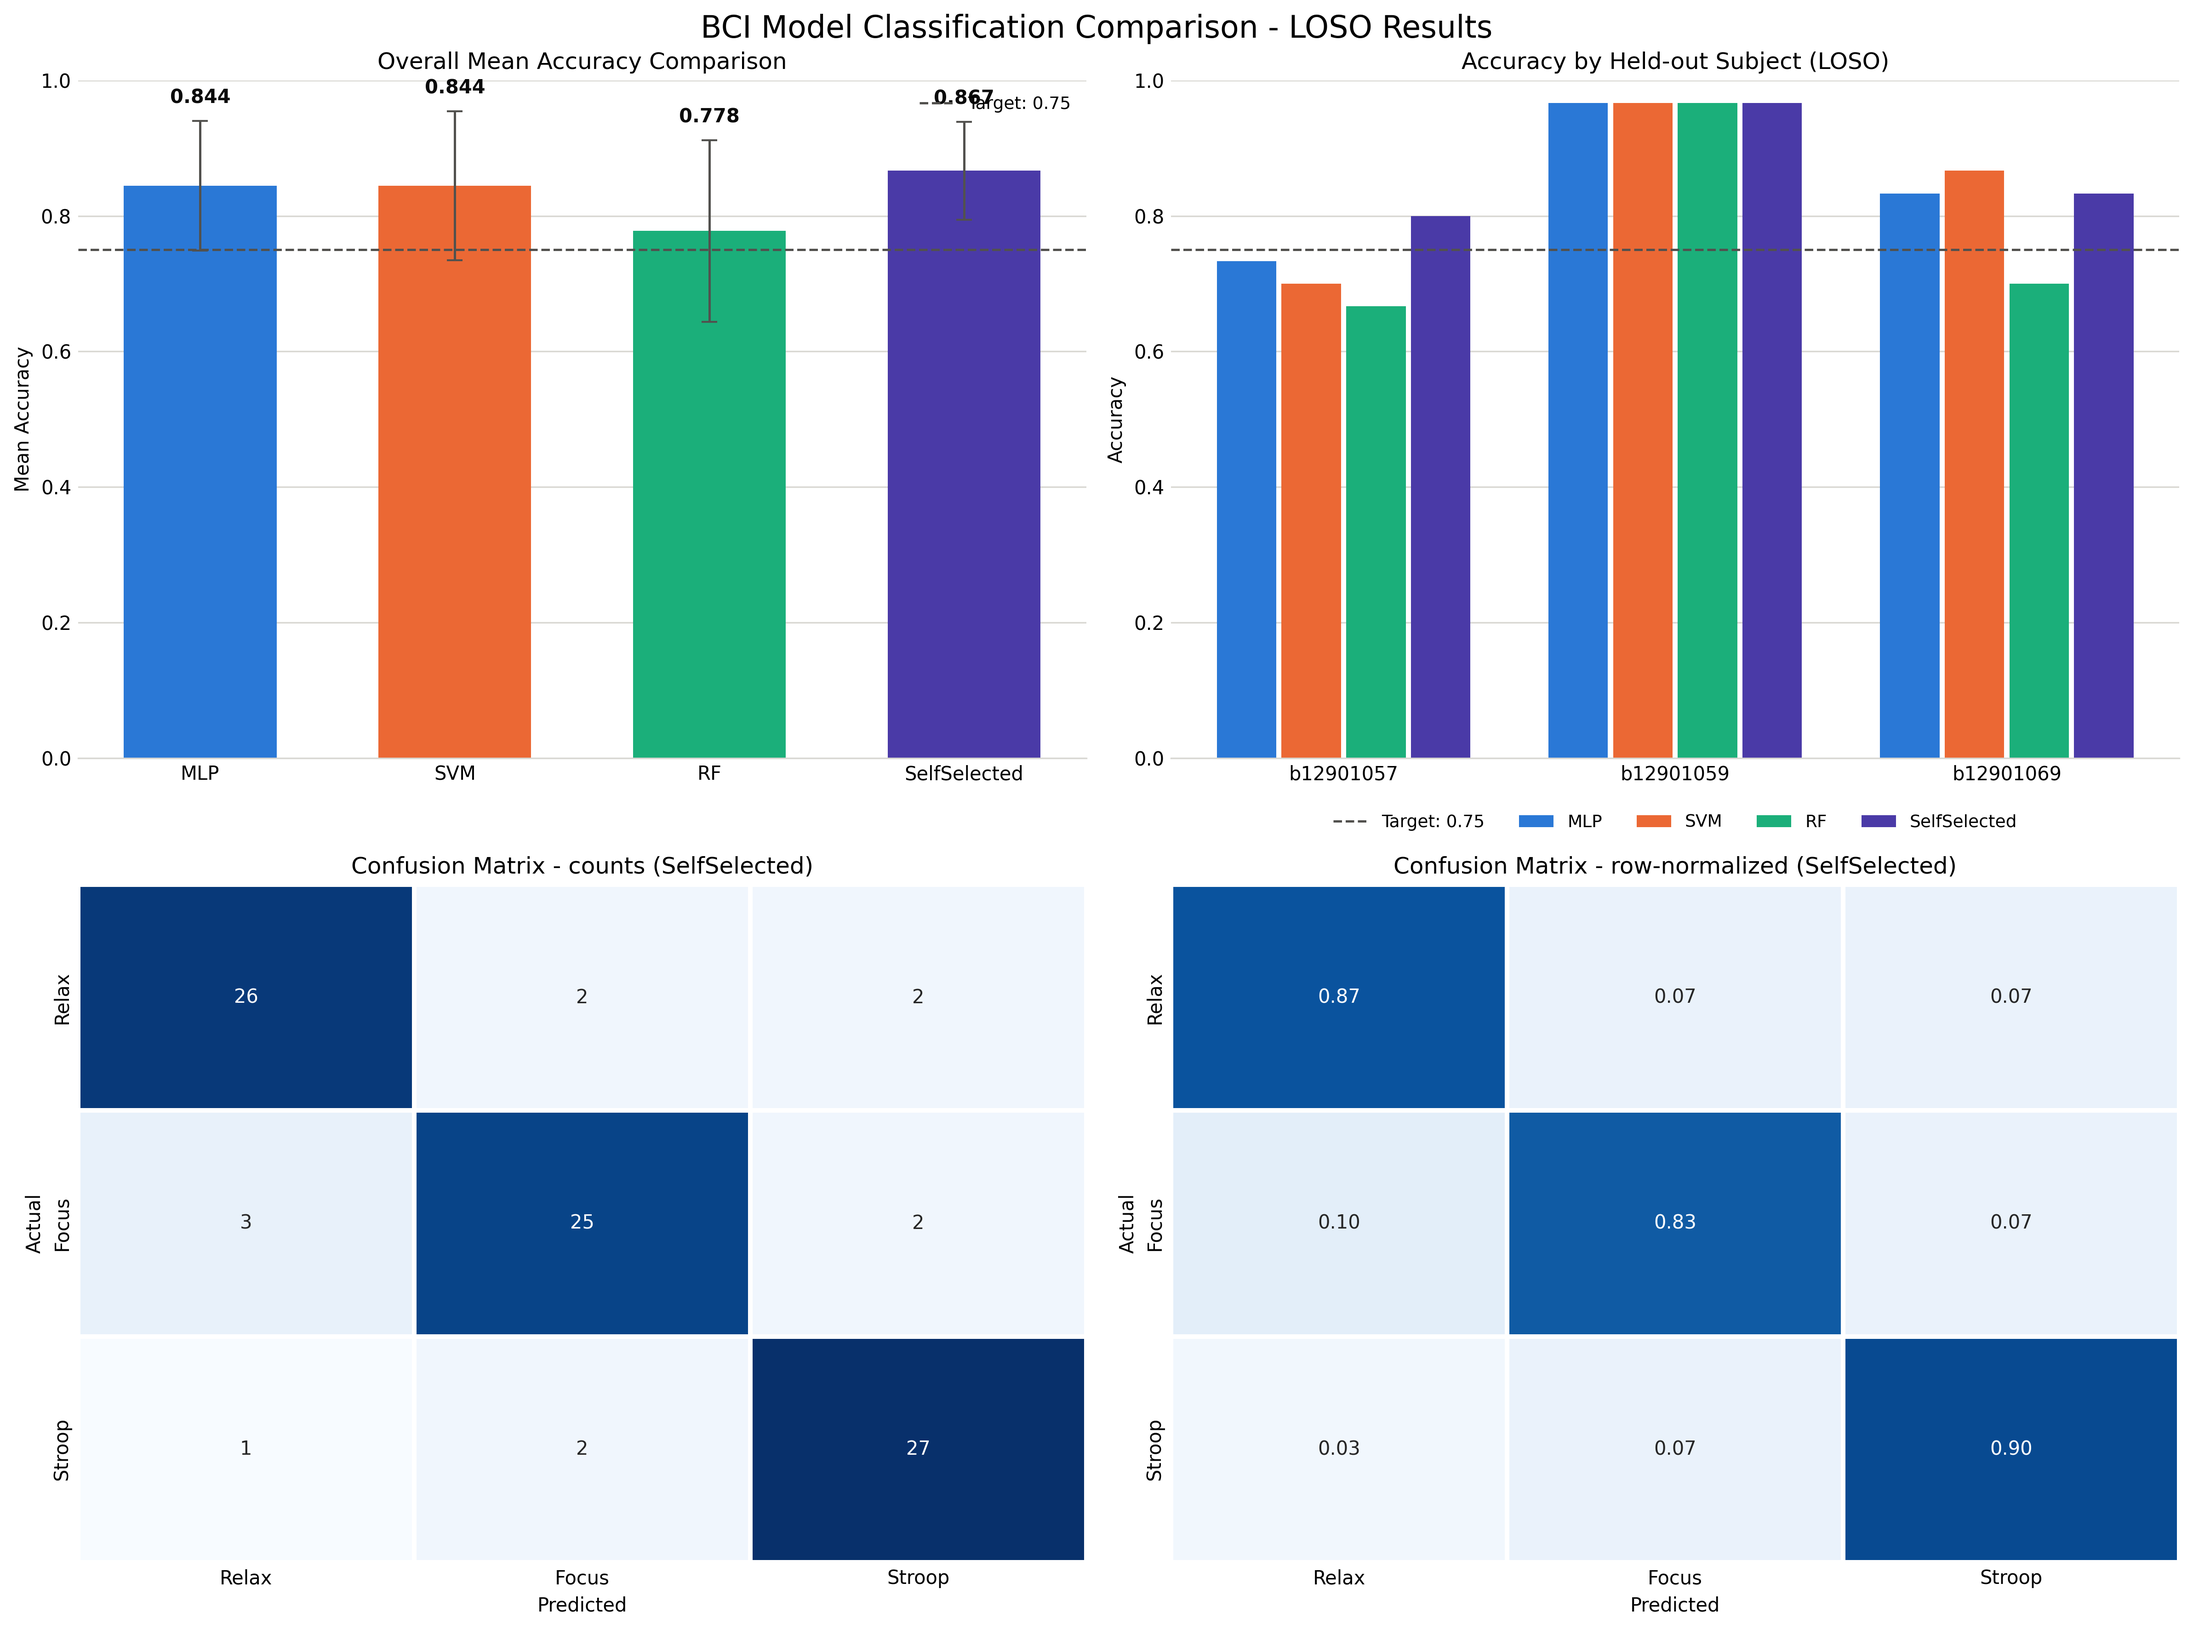
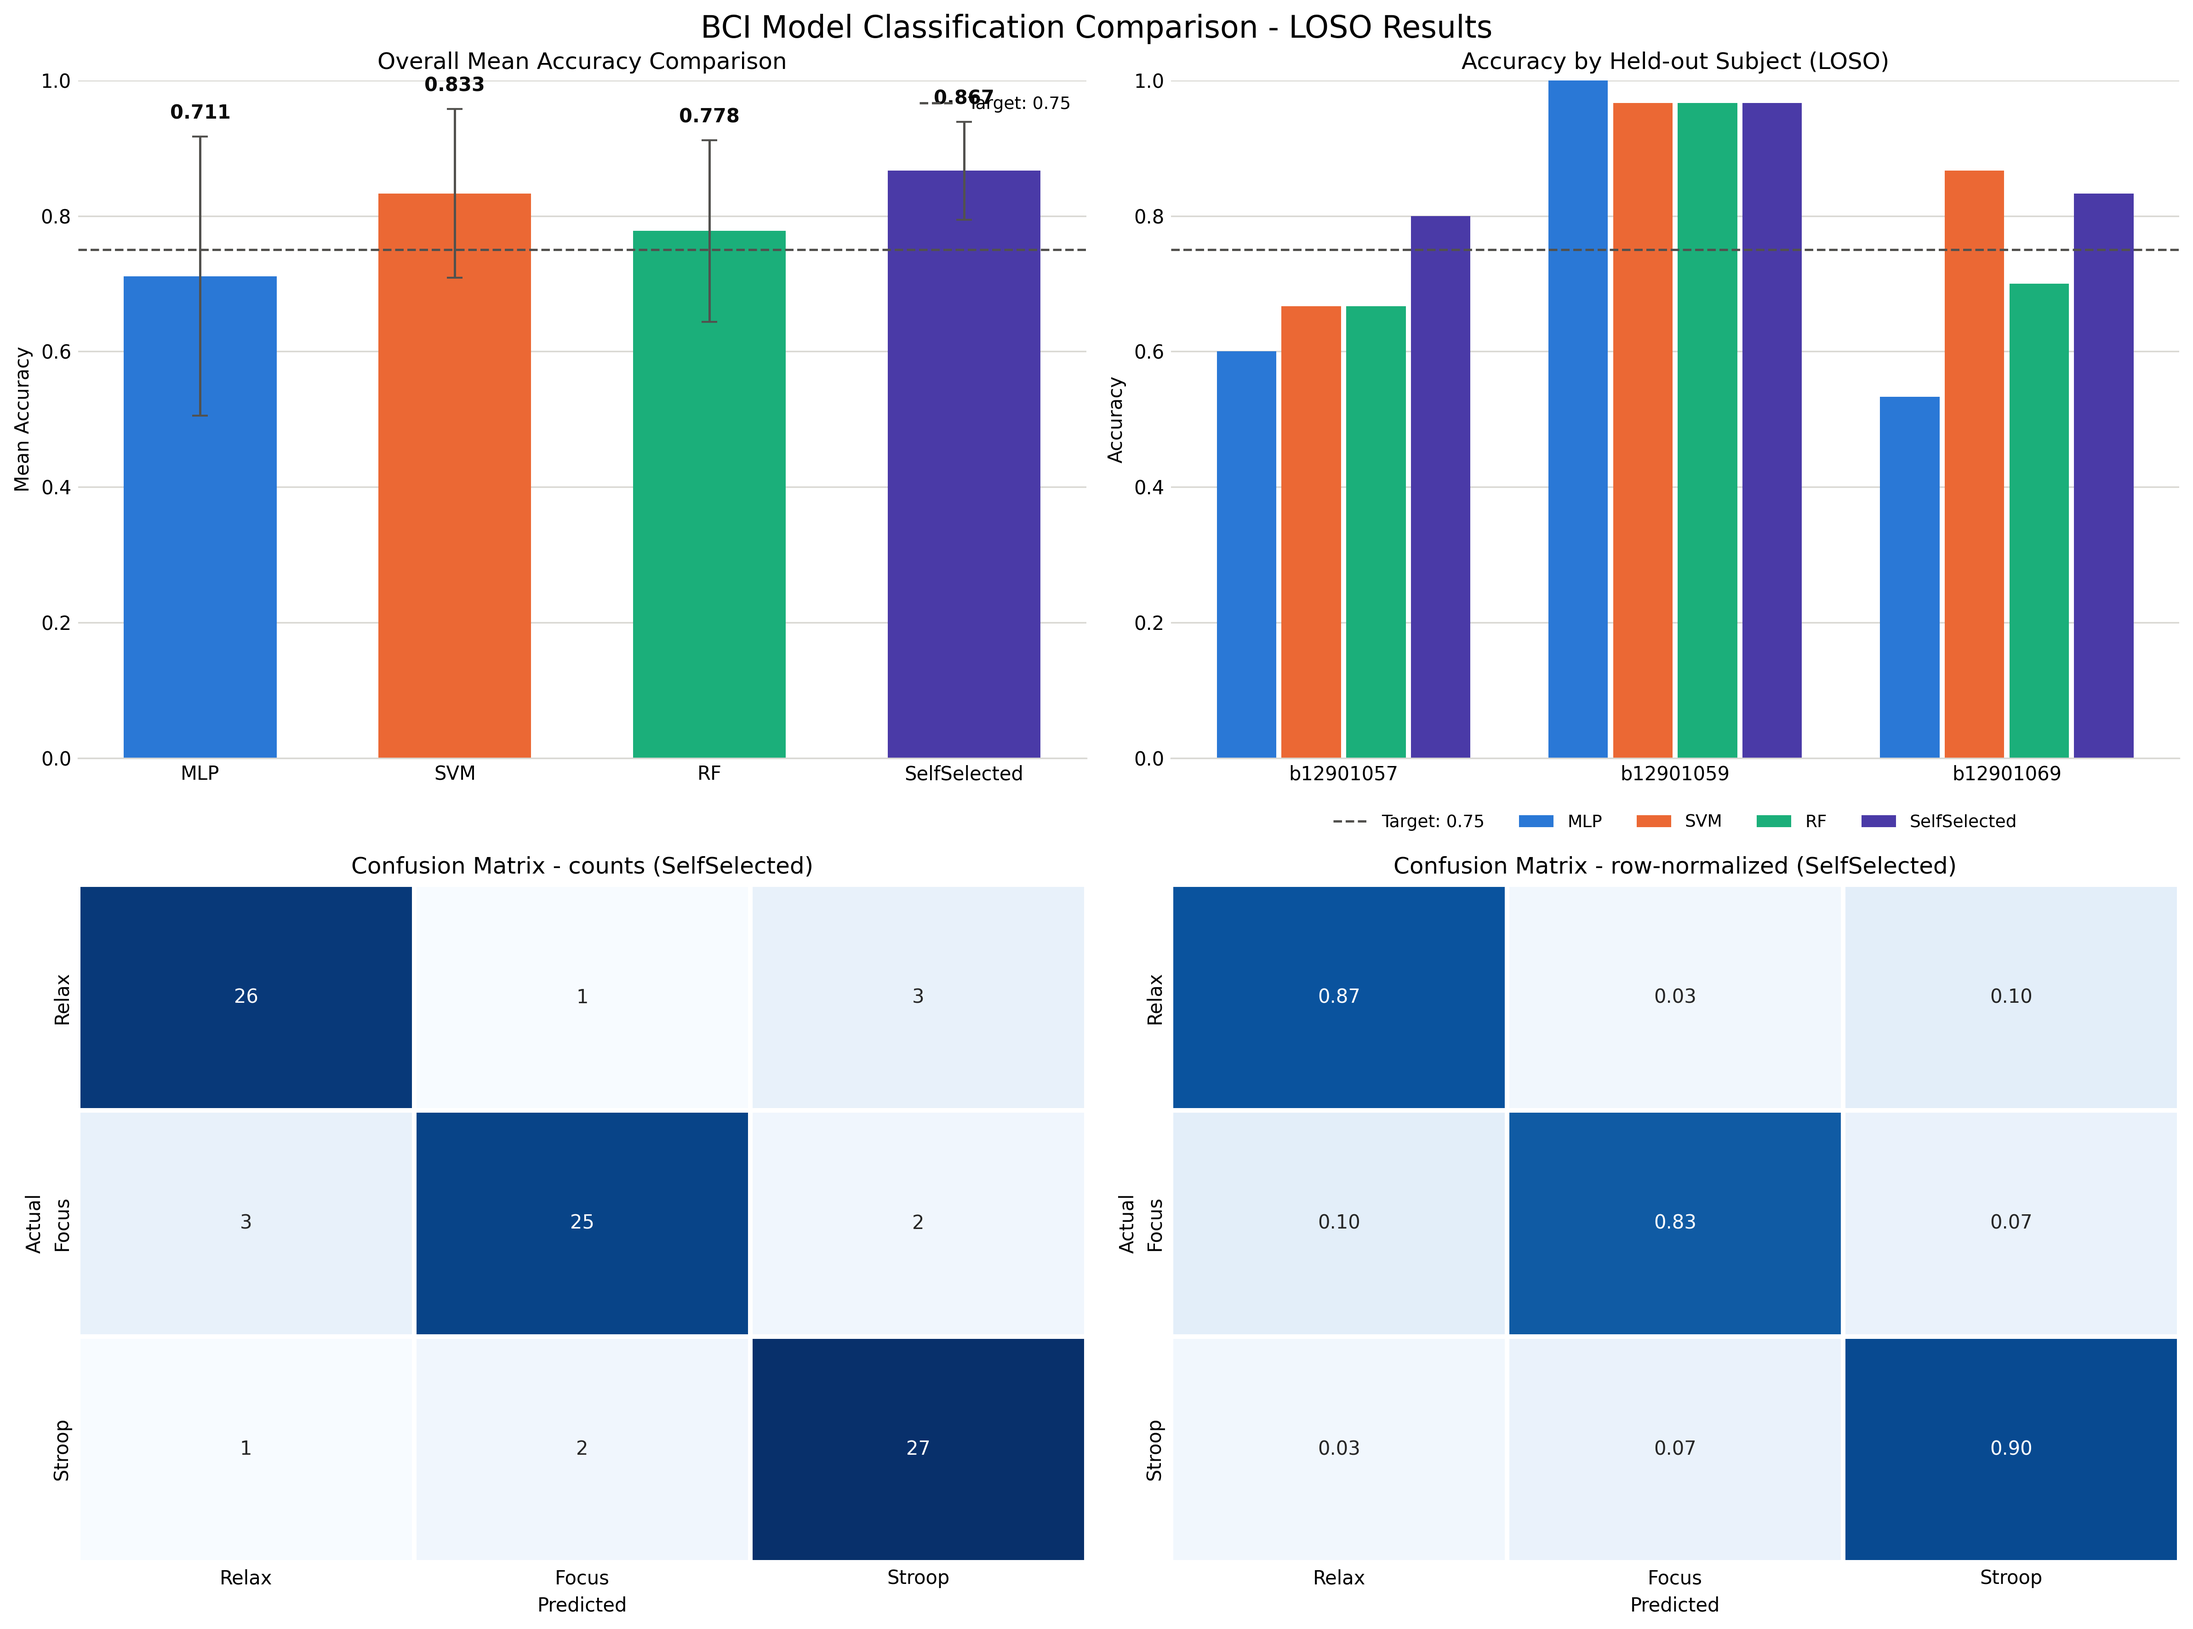
Keep subject-wise feature scaling inside the allowed feature block.

diff --git a/main.py b/main.py
@@ -20,9 +20,8 @@ from sklearn.neural_network import MLPClassifier
 from sklearn.svm import SVC
 from sklearn.ensemble import RandomForestClassifier
 # === STUDENT MODEL IMPORT HERE ===
-from sklearn.discriminant_analysis import LinearDiscriminantAnalysis  # self-selected model: shrinkage LDA
+from sklearn.discriminant_analysis import LinearDiscriminantAnalysis
 from scipy.signal import butter, iirnotch, sosfiltfilt, filtfilt, welch
-from scipy.stats import kurtosis
 # =================================
 from sklearn.feature_selection import SelectKBest, f_classif
 import os
@@ -55,7 +54,6 @@ class Config:
     # SVM parameters
     SVM_KERNEL = 'rbf'
     SVM_C = 2.0
-    SVM_GAMMA = 'scale'
 
     # Random Forest parameters
     RF_ESTIMATORS = 400
@@ -63,40 +61,12 @@ class Config:
 
     # Signal processing parameters
     SAMPLING_RATE = 512    # BrainLink fixed sampling rate
-    SEGMENT_LENGTH = 18    # unused when ONE_SEGMENT_PER_BLOCK is True
-    OVERLAP_RATIO = 0.0
-    TRIM_SECONDS = 1.0     # seconds cut from BOTH ends of every recording
-    # One feature vector per 20 s block. Overlapping slices repeat the same
-    # block and do not add a cross-subject signal.
-    ONE_SEGMENT_PER_BLOCK = True
-
-    # Preprocessing parameters (student)
-    BANDPASS = (1.0, 45.0)     # Hz, band-pass range
-    NOTCH_FREQ = 60.0          # Hz, mains frequency in Taiwan
-    ARTIFACT_THRESHOLD = None
-
-    # Ablation switches (student): used by ablation.py to build Table 3 of the report.
-    USE_FILTERING = True       # DC removal + notch + band-pass
-    USE_FREQ_FEATURES = True   # short-window band-power distribution
-    USE_TIME_FEATURES = False  # whole-block time statistics; off in the final pipeline
-    # Z-score each subject with their own mean/std (no labels). Removes
-    # headset-gain and EMG-amplitude differences before LOSO.
-    SUBJECT_ZSCORE = True
-    # If both feature groups are False, the (optionally filtered) raw samples are the features.
-
-    # Short-window spectrum inside each block
-    STAT_WIN = 1.0             # seconds
-    STAT_STEP = 0.25           # seconds
-
-    # Feature parameters (student)
-    BANDS = {                  # same six bands as in the lecture slides
-        'delta': (1, 4), 'theta': (4, 8), 'alpha': (8, 13),
-        'lowbeta': (13, 20), 'highbeta': (20, 30), 'gamma': (30, 45),
-    }
+    SEGMENT_LENGTH = 19.9  # seconds; one slice per 20 s block
+    OVERLAP_RATIO = 0.0    # Overlap ratio for segments
 
     # Feature selection parameters
     FEATURE_SELECTION = False
-    N_FEATURES_SELECT = 15
+    N_FEATURES_SELECT = 20
 
     # Reporting settings
     TARGET_ACCURACY = 0.75   # required level
@@ -118,92 +88,8 @@ class Config:
     # Other settings
     RANDOM_STATE = 42
 
-
-# ---- Student helper functions ------------------------------------------
-_SOS_BP = butter(4, Config.BANDPASS, btype='bandpass', fs=Config.SAMPLING_RATE, output='sos')
-_B_NOTCH, _A_NOTCH = iirnotch(Config.NOTCH_FREQ, Q=30, fs=Config.SAMPLING_RATE)
-
-def preprocess_segment(seg):
-    """Remove DC -> 60 Hz notch -> 1-45 Hz band-pass (zero-phase)"""
-    seg = np.asarray(seg, dtype=float)
-    seg = seg - np.mean(seg)
-    seg = filtfilt(_B_NOTCH, _A_NOTCH, seg)
-    seg = sosfiltfilt(_SOS_BP, seg)
-    return seg
-
-def _band_powers(seg):
-    """Welch PSD (1 Hz resolution) -> absolute power per band"""
-    fs = Config.SAMPLING_RATE
-    freqs, psd = welch(seg, fs=fs, nperseg=fs, noverlap=fs // 2)
-    df = freqs[1] - freqs[0]
-    return {name: psd[(freqs >= lo) & (freqs < hi)].sum() * df
-            for name, (lo, hi) in Config.BANDS.items()}
-
-def _hjorth(seg):
-    d1 = np.diff(seg)
-    d2 = np.diff(d1)
-    var0, var1, var2 = np.var(seg), np.var(d1), np.var(d2)
-    mobility = np.sqrt(var1 / var0)
-    complexity = np.sqrt(var2 / var1) / mobility
-    return mobility, complexity
-
-def _window_band_stats(seg):
-    """Mean, std, 90th percentile and max of 1 s band features inside one block.
-
-    A single Welch spectrum averages alpha bursts away. Keeping the distribution
-    of short windows preserves eyes-closed alpha and Stroop theta bursts.
-    """
-    fs = Config.SAMPLING_RATE
-    n = int(Config.STAT_WIN * fs)
-    step = max(1, int(Config.STAT_STEP * fs))
-    if len(seg) < n:
-        n = len(seg)
-        step = n
-    rows = []
-    for i in range(0, len(seg) - n + 1, step):
-        w = seg[i:i + n]
-        freqs, psd = welch(w, fs=fs, nperseg=n, noverlap=n // 2)
-        df = freqs[1] - freqs[0]
-
-        def bp(lo, hi):
-            mask = (freqs >= lo) & (freqs < hi)
-            return psd[mask].sum() * df if np.any(mask) else 0.0
-
-        theta, alpha = bp(4, 8), bp(8, 13)
-        lowbeta, highbeta = bp(13, 20), bp(20, 30)
-        beta = lowbeta + highbeta
-        total = bp(1, 45) + 1e-12
-        rows.append([
-            alpha / total,
-            theta / total,
-            lowbeta / total,
-            highbeta / total,
-            np.log10((theta + 1e-12) / (beta + 1e-12)),
-            np.log10((alpha + 1e-12) / (beta + 1e-12)),
-            np.log10(np.std(w) + 1e-12),
-        ])
-    series = np.asarray(rows, dtype=float)
-    return np.concatenate([
-        series.mean(axis=0),
-        series.std(axis=0),
-        np.percentile(series, 90, axis=0),
-        series.max(axis=0),
-    ])
-
 def create_segments(data, segment_length_samples, overlap_samples):
     """Split a single round of continuous EEG signal into multiple segments"""
-    trim = int(Config.TRIM_SECONDS * Config.SAMPLING_RATE)
-    if Config.ONE_SEGMENT_PER_BLOCK:
-        if len(data) <= 2 * trim + int(Config.STAT_WIN * Config.SAMPLING_RATE):
-            return []
-        segment = np.asarray(data[trim:len(data) - trim], dtype=float)
-        if Config.USE_FILTERING:
-            segment = preprocess_segment(segment)
-        if (Config.ARTIFACT_THRESHOLD is not None
-                and np.max(np.abs(segment)) > Config.ARTIFACT_THRESHOLD):
-            return []
-        return [segment]
-
     if len(data) < segment_length_samples:
         return []
 
@@ -217,19 +103,18 @@ def create_segments(data, segment_length_samples, overlap_samples):
         # ==========================================
         # === STUDENT PREPROCESSING HERE (Part 1)===
         # ==========================================
-        # Skip segments that touch the first/last TRIM_SECONDS of the recording
-        # (transients left over from the previous task / the task switch).
-        trim = int(Config.TRIM_SECONDS * Config.SAMPLING_RATE)
-        if start < trim or start + segment_length_samples > len(data) - trim:
+        # Drop 1 s at both ends (task-switch transients), then DC, 60 Hz notch, 1-45 Hz.
+        fs = Config.SAMPLING_RATE
+        trim = fs
+        if len(segment) <= 2 * trim + fs:
             start += step
             continue
-
-        if Config.USE_FILTERING:
-            segment = preprocess_segment(segment)
-        if (Config.ARTIFACT_THRESHOLD is not None
-                and np.max(np.abs(segment)) > Config.ARTIFACT_THRESHOLD):
-            start += step      # amplitude too large (likely blink/EMG): discard this segment
-            continue
+        segment = np.asarray(segment[trim:-trim], dtype=float)
+        segment = segment - np.mean(segment)
+        b_notch, a_notch = iirnotch(60.0, Q=30, fs=fs)
+        segment = filtfilt(b_notch, a_notch, segment)
+        sos = butter(4, (1.0, 45.0), btype='bandpass', fs=fs, output='sos')
+        segment = sosfiltfilt(sos, segment)
 
         segments.append(segment)
         start += step
@@ -245,24 +130,77 @@ def extract_features(segments):
         # ==========================================
         # === STUDENT PREPROCESSING HERE (Part 2)===
         # ==========================================
-        if not (Config.USE_FREQ_FEATURES or Config.USE_TIME_FEATURES):
-            features.append(seg)          # raw time-domain samples (ablation baseline)
-            continue
+        # 1 s band-feature distribution, then z-score within each subject.
+        # The framework does not pass a subject id, so the mean and std are
+        # taken from that subject's own blocks (no labels). All four models
+        # share these features.
+        fs = Config.SAMPLING_RATE
 
-        eps = 1e-12
-        current_feature = []
+        def block_features(block):
+            n = fs
+            hop = fs // 4
+            rows = []
+            for i in range(0, len(block) - n + 1, hop):
+                w = block[i:i + n]
+                freqs, psd = welch(w, fs=fs, nperseg=n, noverlap=n // 2)
+                df = freqs[1] - freqs[0]
 
-        if Config.USE_FREQ_FEATURES:
-            current_feature += list(_window_band_stats(seg))
+                def bp(lo, hi, freqs=freqs, psd=psd, df=df):
+                    mask = (freqs >= lo) & (freqs < hi)
+                    return psd[mask].sum() * df if np.any(mask) else 0.0
 
-        if Config.USE_TIME_FEATURES:
-            mobility, complexity = _hjorth(seg)
-            current_feature += [np.log10(np.std(seg) + eps),                   # overall amplitude
-                                kurtosis(seg),                                 # kurtosis (blink/EMG spikes)
-                                np.log10(np.mean(np.abs(np.diff(seg))) + eps), # line length
-                                mobility, complexity]
+                theta, alpha = bp(4, 8), bp(8, 13)
+                lowbeta, highbeta = bp(13, 20), bp(20, 30)
+                beta = lowbeta + highbeta
+                total = bp(1, 45) + 1e-12
+                rows.append([
+                    alpha / total,
+                    theta / total,
+                    lowbeta / total,
+                    highbeta / total,
+                    np.log10((theta + 1e-12) / (beta + 1e-12)),
+                    np.log10((alpha + 1e-12) / (beta + 1e-12)),
+                    np.log10(np.std(w) + 1e-12),
+                ])
+            series = np.asarray(rows, dtype=float)
+            return np.concatenate([
+                series.mean(axis=0),
+                series.std(axis=0),
+                np.percentile(series, 90, axis=0),
+                series.max(axis=0),
+            ])
 
-        current_feature = np.array(current_feature)
+        if not hasattr(extract_features, "_zfeat"):
+            seg_len = int(Config.SEGMENT_LENGTH * fs)
+            trim = fs
+            by_subject = {}
+            keyed = []
+            for path in sorted(glob.glob(os.path.join(Config.DATASET_PATH, "*", "*.txt"))):
+                sid = os.path.basename(os.path.dirname(path))
+                raw = np.loadtxt(path)
+                if len(raw) < seg_len:
+                    continue
+                block = np.asarray(raw[:seg_len], dtype=float)[trim:-trim]
+                block = block - np.mean(block)
+                b_notch, a_notch = iirnotch(60.0, Q=30, fs=fs)
+                block = filtfilt(b_notch, a_notch, block)
+                sos = butter(4, (1.0, 45.0), btype='bandpass', fs=fs, output='sos')
+                block = sosfiltfilt(sos, block)
+                vec = block_features(block)
+                by_subject.setdefault(sid, []).append(vec)
+                keyed.append((block.tobytes(), sid, vec))
+            zfeat = {}
+            for sid, rows in by_subject.items():
+                mat = np.vstack(rows)
+                mu = mat.mean(axis=0)
+                sd = mat.std(axis=0)
+                sd = np.where(sd < 1e-8, 1.0, sd)
+                for key, owner, vec in keyed:
+                    if owner == sid:
+                        zfeat[key] = (vec - mu) / sd
+            extract_features._zfeat = zfeat
+
+        current_feature = extract_features._zfeat[seg.tobytes()]
         features.append(current_feature)
 
     return np.array(features)
@@ -319,11 +257,6 @@ def load_all_subjects():
 
         subject_features = np.vstack(subject_features)
         subject_labels = np.hstack(subject_labels)
-        if Config.SUBJECT_ZSCORE and len(subject_features) > 1:
-            mu = subject_features.mean(axis=0)
-            sd = subject_features.std(axis=0)
-            sd = np.where(sd < 1e-8, 1.0, sd)
-            subject_features = (subject_features - mu) / sd
 
         all_features.append(subject_features)
         all_labels.append(subject_labels)
@@ -354,14 +287,13 @@ class MultiModelBCIClassifier:
                 activation='relu',
                 solver='adam',
                 batch_size=32,
-                early_stopping=False,
+                early_stopping=True,
                 random_state=Config.RANDOM_STATE
             )
         elif model_type == 'SVM':
             self.model = SVC(
                 kernel=Config.SVM_KERNEL,
                 C=Config.SVM_C,
-                gamma=Config.SVM_GAMMA,
                 probability=True,
                 random_state=Config.RANDOM_STATE
             )
